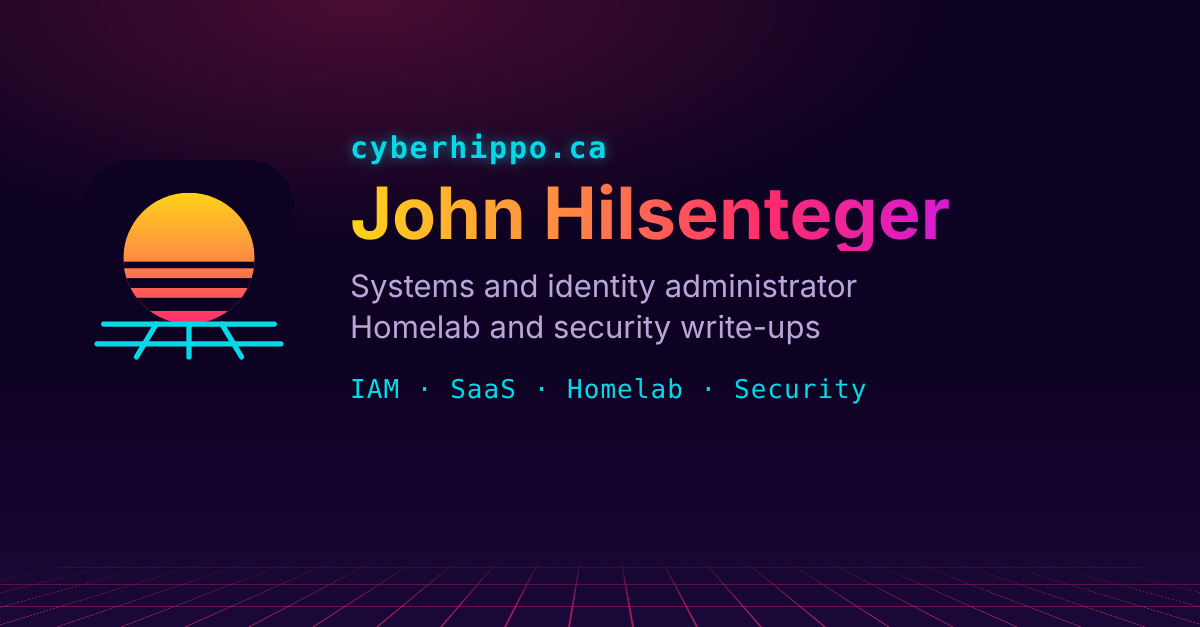
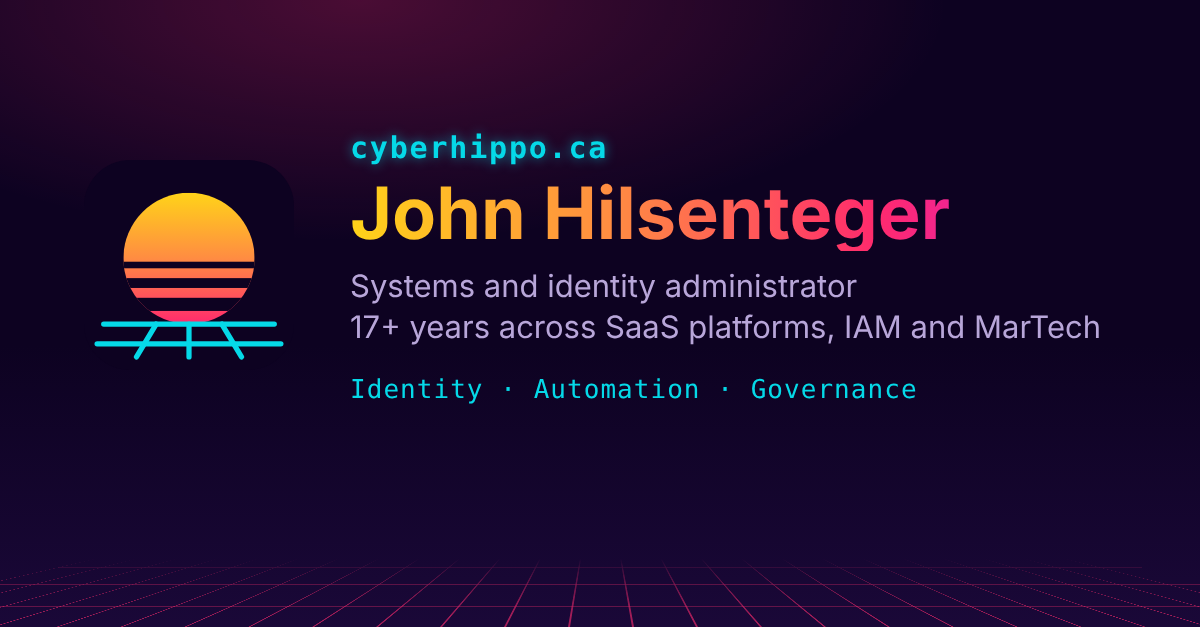
feat: use profile summary in link preview

Changed region(s): [[0.2775, 0.4848, 0.925, 0.5455], [0.4933, 0.303, 0.8017, 0.4242], [0.3083, 0.6061, 0.7708, 0.6364]]

diff --git a/index.html b/index.html
@@ -8,7 +8,7 @@
   <meta property="og:type" content="website">
   <meta property="og:url" content="https://cyberhippo.ca/">
   <meta property="og:title" content="John Hilsenteger | Systems and Identity Administrator">
-  <meta property="og:description" content="Homelab and security write-ups: firewall audits, VPNs, domain hardening and self-hosted tools.">
+  <meta property="og:description" content="17+ years across SaaS platforms, IAM and MarTech. I focus on connecting platforms, automating workflows, and securing access through strong identity and governance practices. I've worked across aviation, energy, fintech and professional services.">
   <meta property="og:image" content="https://cyberhippo.ca/images/og-image.png">
   <meta property="og:image:width" content="1200">
   <meta property="og:image:height" content="627">
